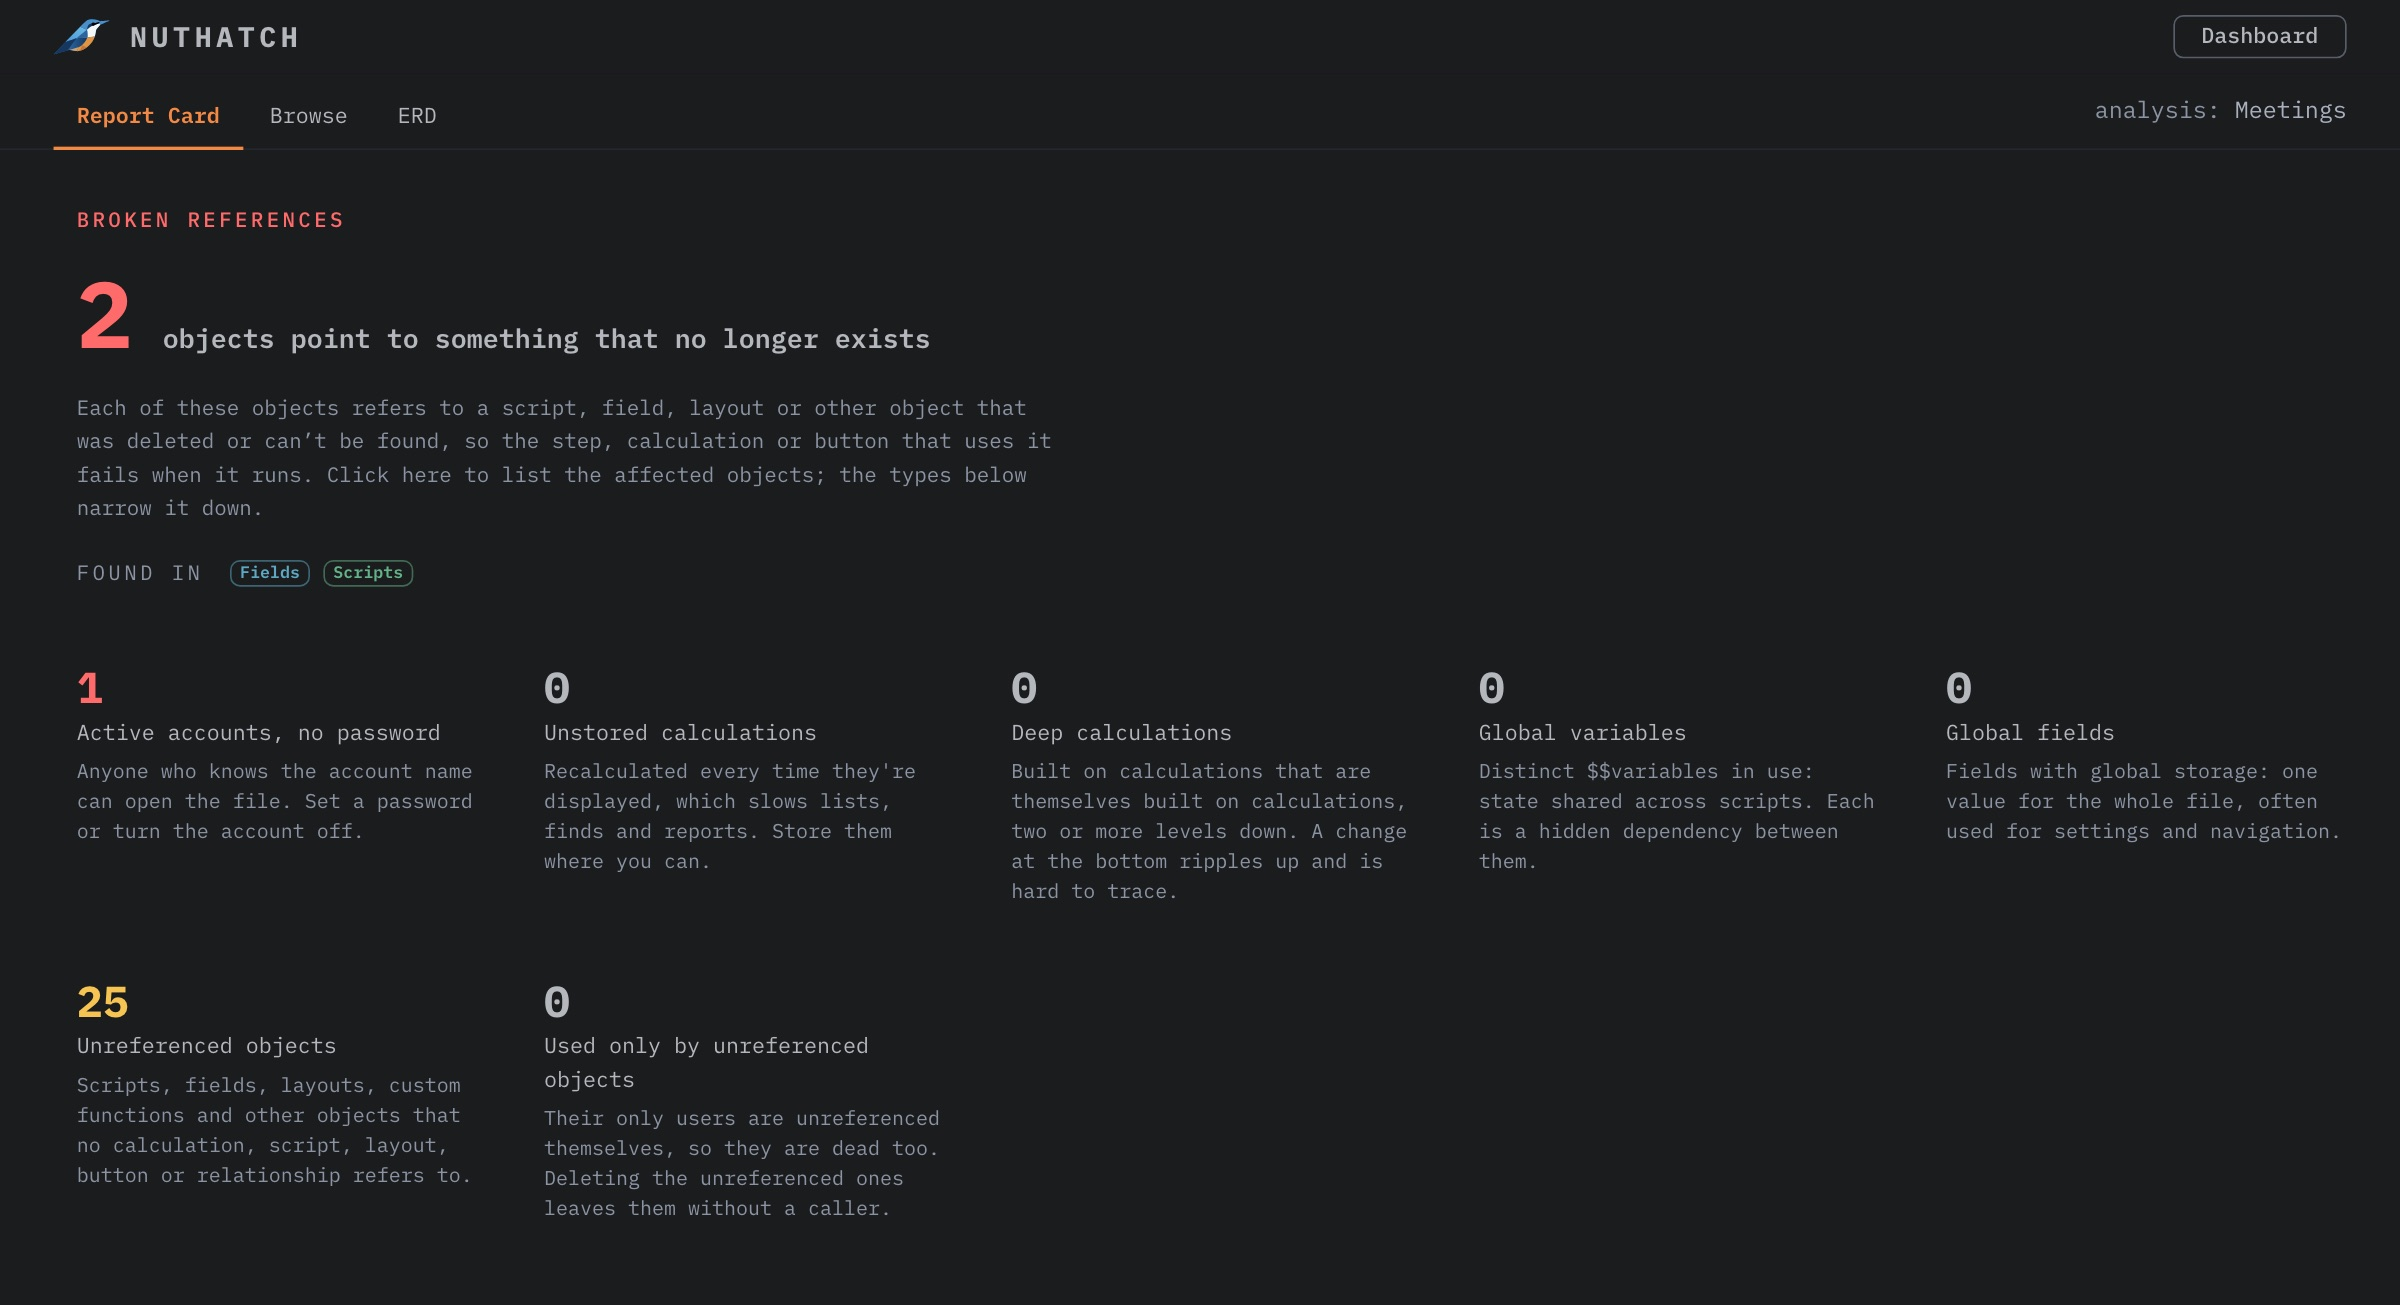
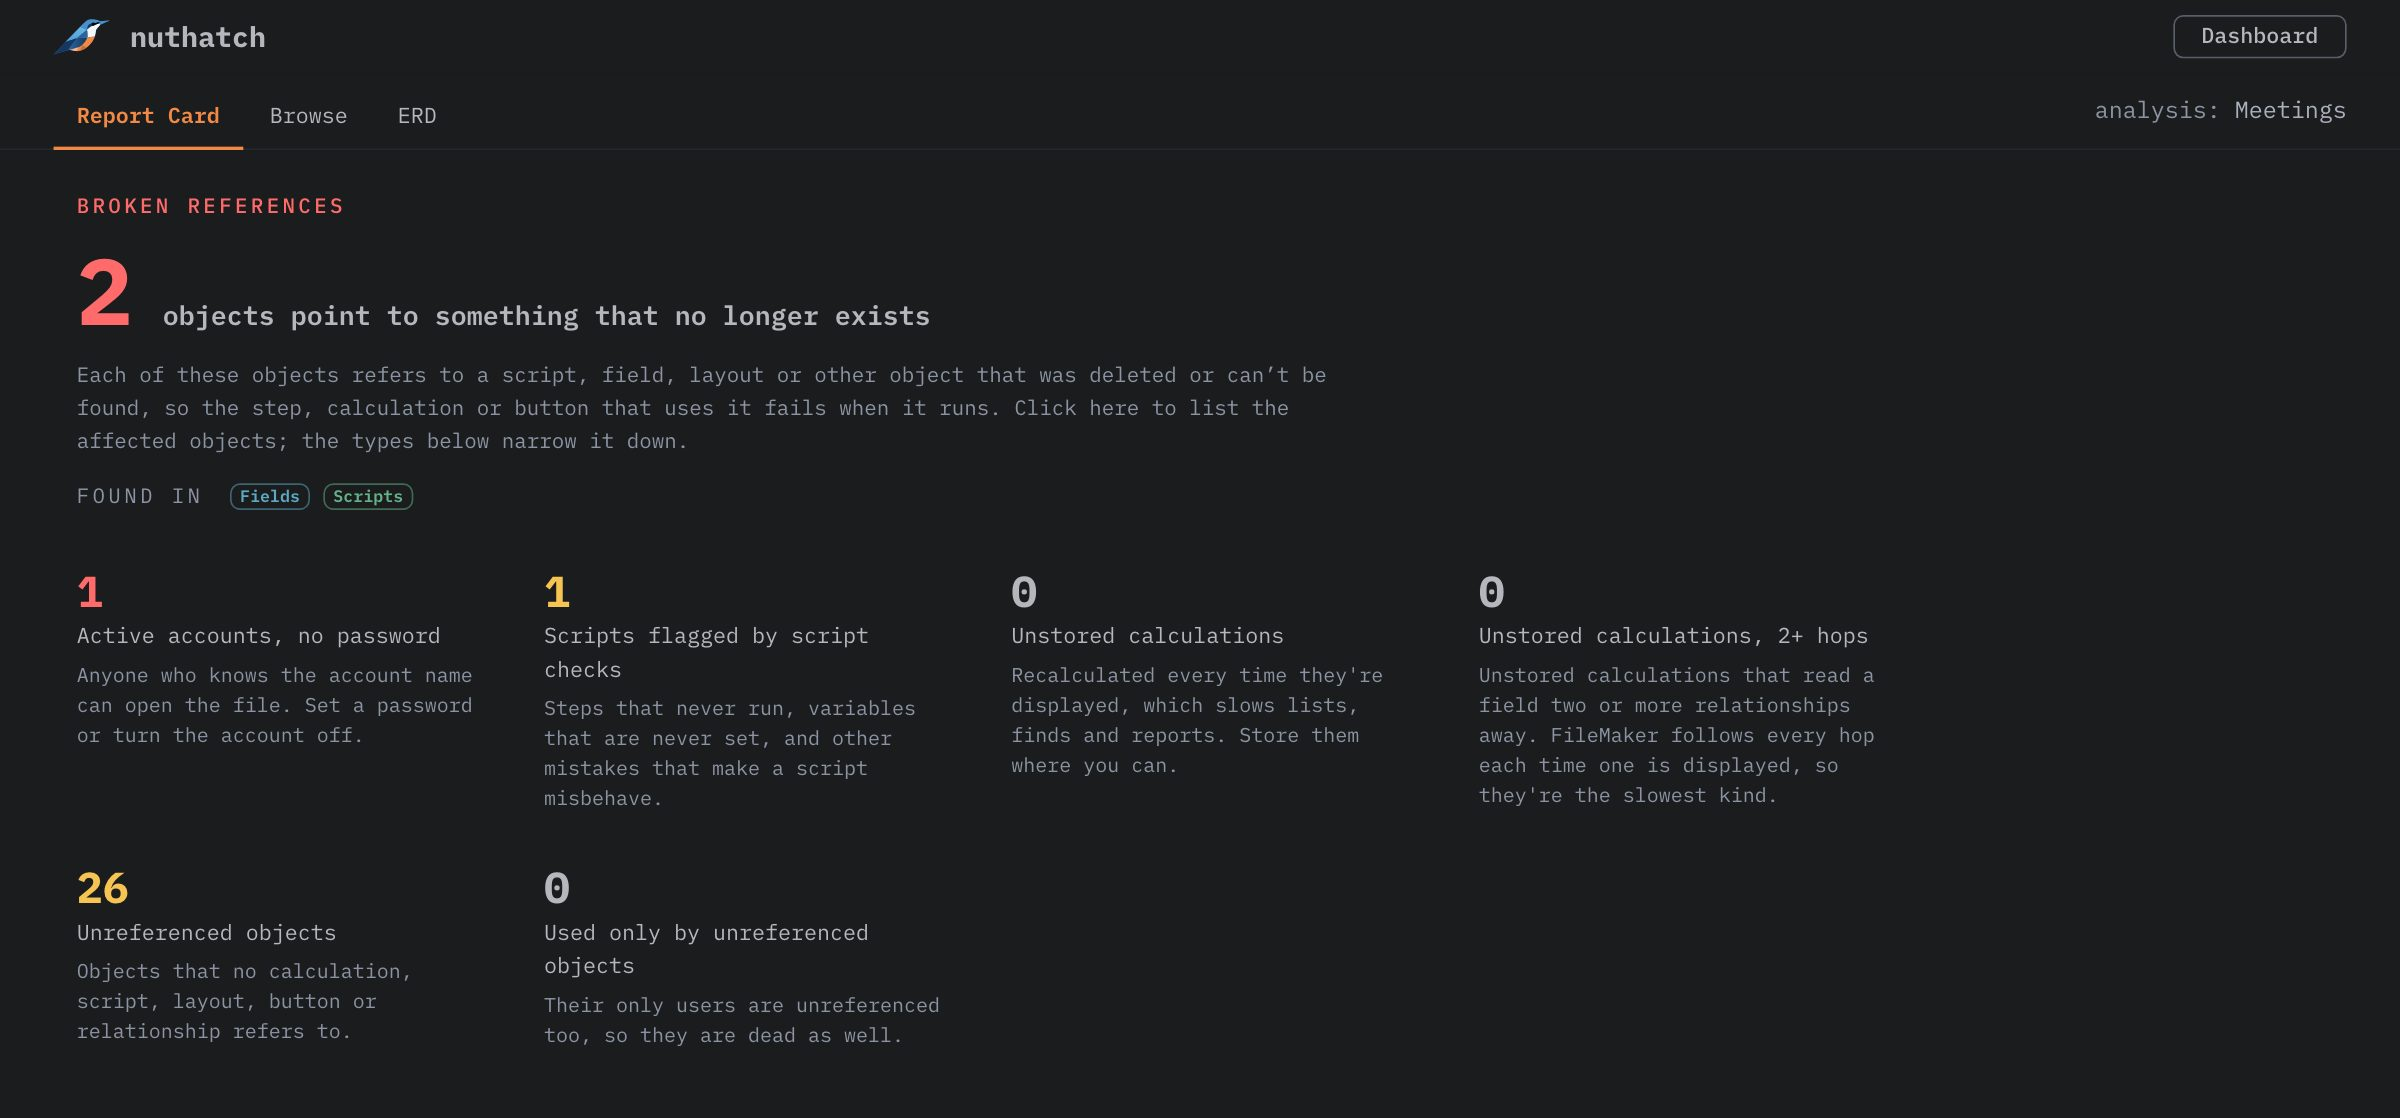
Keep password calcs' code in typed steps; add a script checks tile to the Report Card

diff --git a/src/components/ReportCardView.tsx b/src/components/ReportCardView.tsx
@@ -1,6 +1,7 @@
 import { useStore } from "@/state/store";
 import { isUnresolvedTableOccurrence, type ObjectType, type RiskFlagKind } from "@/types/ddr";
 import { RiskFlags } from "@/components/RiskFlags";
+import { shownScriptChecksByScript } from "@/core/scriptAnalysis/analyze";
 
 /** Report card dashboard — the home base for a parsed solution. */
 export function ReportCardView() {
@@ -23,7 +24,7 @@ export function ReportCardView() {
   // Where each check's "show me" goes: the navigator, pointed at the matching
   // objects, on the Browse tab so the sidebar is visible. Shared by the tiles
   // and the risk flags.
-  const showAll = (filter: "broken" | "unreferenced" | "unusedChain") => {
+  const showAll = (filter: "broken" | "unreferenced" | "unusedChain" | "scriptChecks") => {
     showBrowse();
     setNavType("all");
     setNavRefFilter(filter);
@@ -43,11 +44,6 @@ export function ReportCardView() {
       setNavRefFilter("all");
       focusFields("unstored");
     },
-    globalVariables: () => {
-      showBrowse();
-      setNavRefFilter("all");
-      setNavType("globalVariable");
-    },
   };
   // A type's broken objects, for the risk card's "Found in" chips.
   const showBrokenOfType = (type: ObjectType) => {
@@ -64,6 +60,8 @@ export function ReportCardView() {
   // The main issue above already shows (and links) its own figure, so its tile
   // is left out rather than repeating the number.
   const hero = card.riskFlags[0]?.kind;
+  // Scripts with a finding: the same source as their flag and the Script checks filter.
+  const scriptCheckCount = shownScriptChecksByScript(model).size;
 
   return (
     <div className="report-card">
@@ -100,10 +98,10 @@ export function ReportCardView() {
         <div className="nh-tiles nh-card report-tiles">
           {hero !== "broken" && <Metric label="Objects with broken references" hint="They point to something that was deleted or can't be found, so the step, calculation or button that uses it fails." value={card.brokenReferenceCount} onClick={goTo.broken} tone={card.brokenReferenceCount > 0 ? "danger" : undefined} />}
           {hero !== "noPassword" && <Metric label="Active accounts, no password" hint="Anyone who knows the account name can open the file. Set a password or turn the account off." value={card.accountsNoPasswordCount} onClick={goTo.noPassword} tone={card.accountsNoPasswordCount > 0 ? "danger" : undefined} />}
+          {/* Left out for an analysis saved before the script checks: it has no steps to check. */}
+          {model.scriptSteps.size > 0 && <Metric label="Scripts flagged by script checks" hint="Steps that never run, variables that are never set, and other mistakes that make a script misbehave." value={scriptCheckCount} onClick={() => showAll("scriptChecks")} tone={scriptCheckCount > 0 ? "warning" : undefined} />}
           {hero !== "unstored" && <Metric label="Unstored calculations" hint="Recalculated every time they're displayed, which slows lists, finds and reports. Store them where you can." value={card.unstoredCalculationCount} onClick={goTo.unstored} tone={card.unstoredCalculationCount > 0 ? "warning" : undefined} />}
           <Metric label="Unstored calculations, 2+ hops" hint="Unstored calculations that read a field two or more relationships away. FileMaker follows every hop each time one is displayed, so they're the slowest kind." value={card.deepCalcCount} onClick={() => { setNavRefFilter("all"); focusFields("deepCalc"); }} tone={card.deepCalcCount > 0 ? "warning" : undefined} />
-          {hero !== "globalVariables" && <Metric label="Global variables" hint="Distinct $$variables in use: state shared across scripts. Each is a hidden dependency between them." value={card.globalVariableCount} onClick={goTo.globalVariables} />}
-          <Metric label="Global fields" hint="Fields with global storage: one value for the whole file, often used for settings and navigation." value={card.globalFieldCount} onClick={() => { setNavRefFilter("all"); focusFields("global"); }} />
         </div>
       </section>
 

diff --git a/src/core/parser/objects/stepIr.ts b/src/core/parser/objects/stepIr.ts
@@ -1,7 +1,7 @@
 import type { LayoutChoice, StepIr } from "@/types/ddr";
 import { calculationText } from "../calcText";
 import { ownValue } from "../ownValue";
-import { isPasswordParameterType } from "../passwords";
+import { isPasswordParameterType, withoutPasswordText } from "../passwords";
 import { stepNodes } from "../steps";
 import { asArray, attr, child, children, isElementKey, isRecord, textAttr } from "../xmlUtils";
 
@@ -34,19 +34,21 @@ function stepIr(step: Record<string, unknown>, index: number): StepIr {
 }
 
 /** Every formula under `node`: a <Calculation>'s once (not again for the
- * <Calculation> nested in it), none of a password's. */
-function stepFormulas(node: unknown, out: string[] = []): string[] {
+ * <Calculation> nested in it), a password's without its typed text — under a
+ * `<Parameter type="Password">` or a `<Password>`, as in the step's text. */
+function stepFormulas(node: unknown, out: string[] = [], inPassword = false): string[] {
   for (const item of asArray(node)) {
-    if (!isRecord(item) || isPasswordParameterType(attr(item, "type"))) continue;
+    if (!isRecord(item)) continue;
+    const isPassword = inPassword || isPasswordParameterType(attr(item, "type"));
     for (const [key, value] of Object.entries(item)) {
-      if (!isElementKey(key) || key === "Password") continue;
+      if (!isElementKey(key)) continue;
       if (key !== "Calculation") {
-        stepFormulas(value, out);
+        stepFormulas(value, out, isPassword || key === "Password");
         continue;
       }
       for (const calc of asArray(value)) {
         const formula = calculationText(calc);
-        if (formula) out.push(formula);
+        if (formula) out.push(isPassword ? withoutPasswordText(formula, [formula]) : formula);
       }
     }
   }

diff --git a/docs/index.html b/docs/index.html
@@ -706,12 +706,12 @@
             <div class="text">
               <h2>Start from what's wrong</h2>
               <p>
-                The report card counts broken references, unreferenced objects, accounts without a
-                password, and unstored or deep calculations. Click any number to see the objects
-                behind it.
+                The report card counts broken references, accounts without a password, scripts
+                flagged by the script checks, unstored or deep calculations, and unreferenced
+                objects. Click any number to see the objects behind it.
               </p>
             </div>
-            <div class="shot" style="--ratio: 2400 / 1305"><img src="shots/report-card.jpg" alt="The report card: two objects with broken references, an account without a password, and 25 unreferenced objects" /></div>
+            <div class="shot" style="--ratio: 2400 / 1118"><img src="shots/report-card.jpg" alt="The report card: two objects with broken references, an account without a password, a script flagged by the script checks, and 26 unreferenced objects" /></div>
           </div>
 
           <div class="row flip">

diff --git a/src/types/ddr.ts b/src/types/ddr.ts
@@ -572,8 +572,8 @@ export interface StepIr {
   index: number;
   name: string;
   enabled: boolean;
-  /** Each of the step's formulas, as written (a nested one once), password
-   * formulas left out. */
+  /** Each of the step's formulas, as written (a nested one once); a password's
+   * without its typed text (see core/parser/passwords). */
   calcs: string[];
   /** The variable the step writes: Set Variable's, or the target variable of
    * a step that stores its result (Insert from URL …). */
@@ -657,11 +657,10 @@ export type RiskFlagKind =
   | "noPassword"
   | "unreferenced"
   | "unstored"
-  | "unusedChain"
-  | "globalVariables";
+  | "unusedChain";
 
-/** A report-card risk: which check it is, how serious, and how many objects
- * (or, for global variables, names) it covers. The UI owns the wording. */
+/** A report-card risk: which check it is, how serious, and how many objects it
+ * covers. The UI owns the wording. */
 export interface RiskFlag {
   kind: RiskFlagKind;
   severity: "info" | "warn" | "high";

diff --git a/src/components/RiskFlags.tsx b/src/components/RiskFlags.tsx
@@ -41,11 +41,6 @@ const FLAG_COPY: Record<
     what: (n) => (n === 1 ? "object is used only by unreferenced objects" : "objects are used only by unreferenced objects"),
     detail: "These are used only by objects that nothing points to, so they are dead code as well. Deleting the unreferenced ones would leave them without a caller.",
   },
-  globalVariables: {
-    title: (n) => (n === 1 ? "Distinct global variable in use" : "Distinct global variables in use"),
-    what: (n) => (n === 1 ? "global variable is in use" : "global variables are in use"),
-    detail: "Global variables are state shared across scripts, and each one is a hidden dependency between them. They are worth knowing about, not necessarily a problem.",
-  },
 };
 
 /** The value colour for each severity: red, yellow, or the accent. */

diff --git a/tests/passwords.test.ts b/tests/passwords.test.ts
@@ -115,6 +115,11 @@ describe("passwords in steps", () => {
     expect(script.text).toContain(`Re-Login [ Account Name: "bot"; Password: ${T}; Current File ]`);
   });
 
+  it("keep their code, not their typed text, in the typed steps the script checks read", () => {
+    const calcs = result.scriptSteps?.["F0:script:1"]?.map((step) => step.calcs);
+    expect(calcs).toEqual([[`"bot"`, T], [`"bot"`, T], [`"me"`, T], [`"svc"`, "$$botPassword"], [`"bot"`, `$prefix & ${T} ${T}`], [`"bot"`, T]]);
+  });
+
   it("show as not stored in a button's action", () => {
     expect(JSON.stringify(object("F0:layout:10").detail)).toContain(`"params":"[ Account Name: \\"bot\\"; Password: ${T} ]"`);
   });

diff --git a/src/core/analysis/reportCard.ts b/src/core/analysis/reportCard.ts
@@ -75,7 +75,6 @@ function deriveRiskFlags(card: ReportCard): RiskFlag[] {
     // "info", not "warn": the saved-analyses trend counts warn flags, and this
     // adds no new problem — it shows how far the unreferenced ones reach.
     { kind: "unusedChain", severity: "info", count: card.unusedChainCount },
-    { kind: "globalVariables", severity: "info", count: card.globalVariableCount },
   ];
   return flags.filter((f) => f.count > 0);
 }
